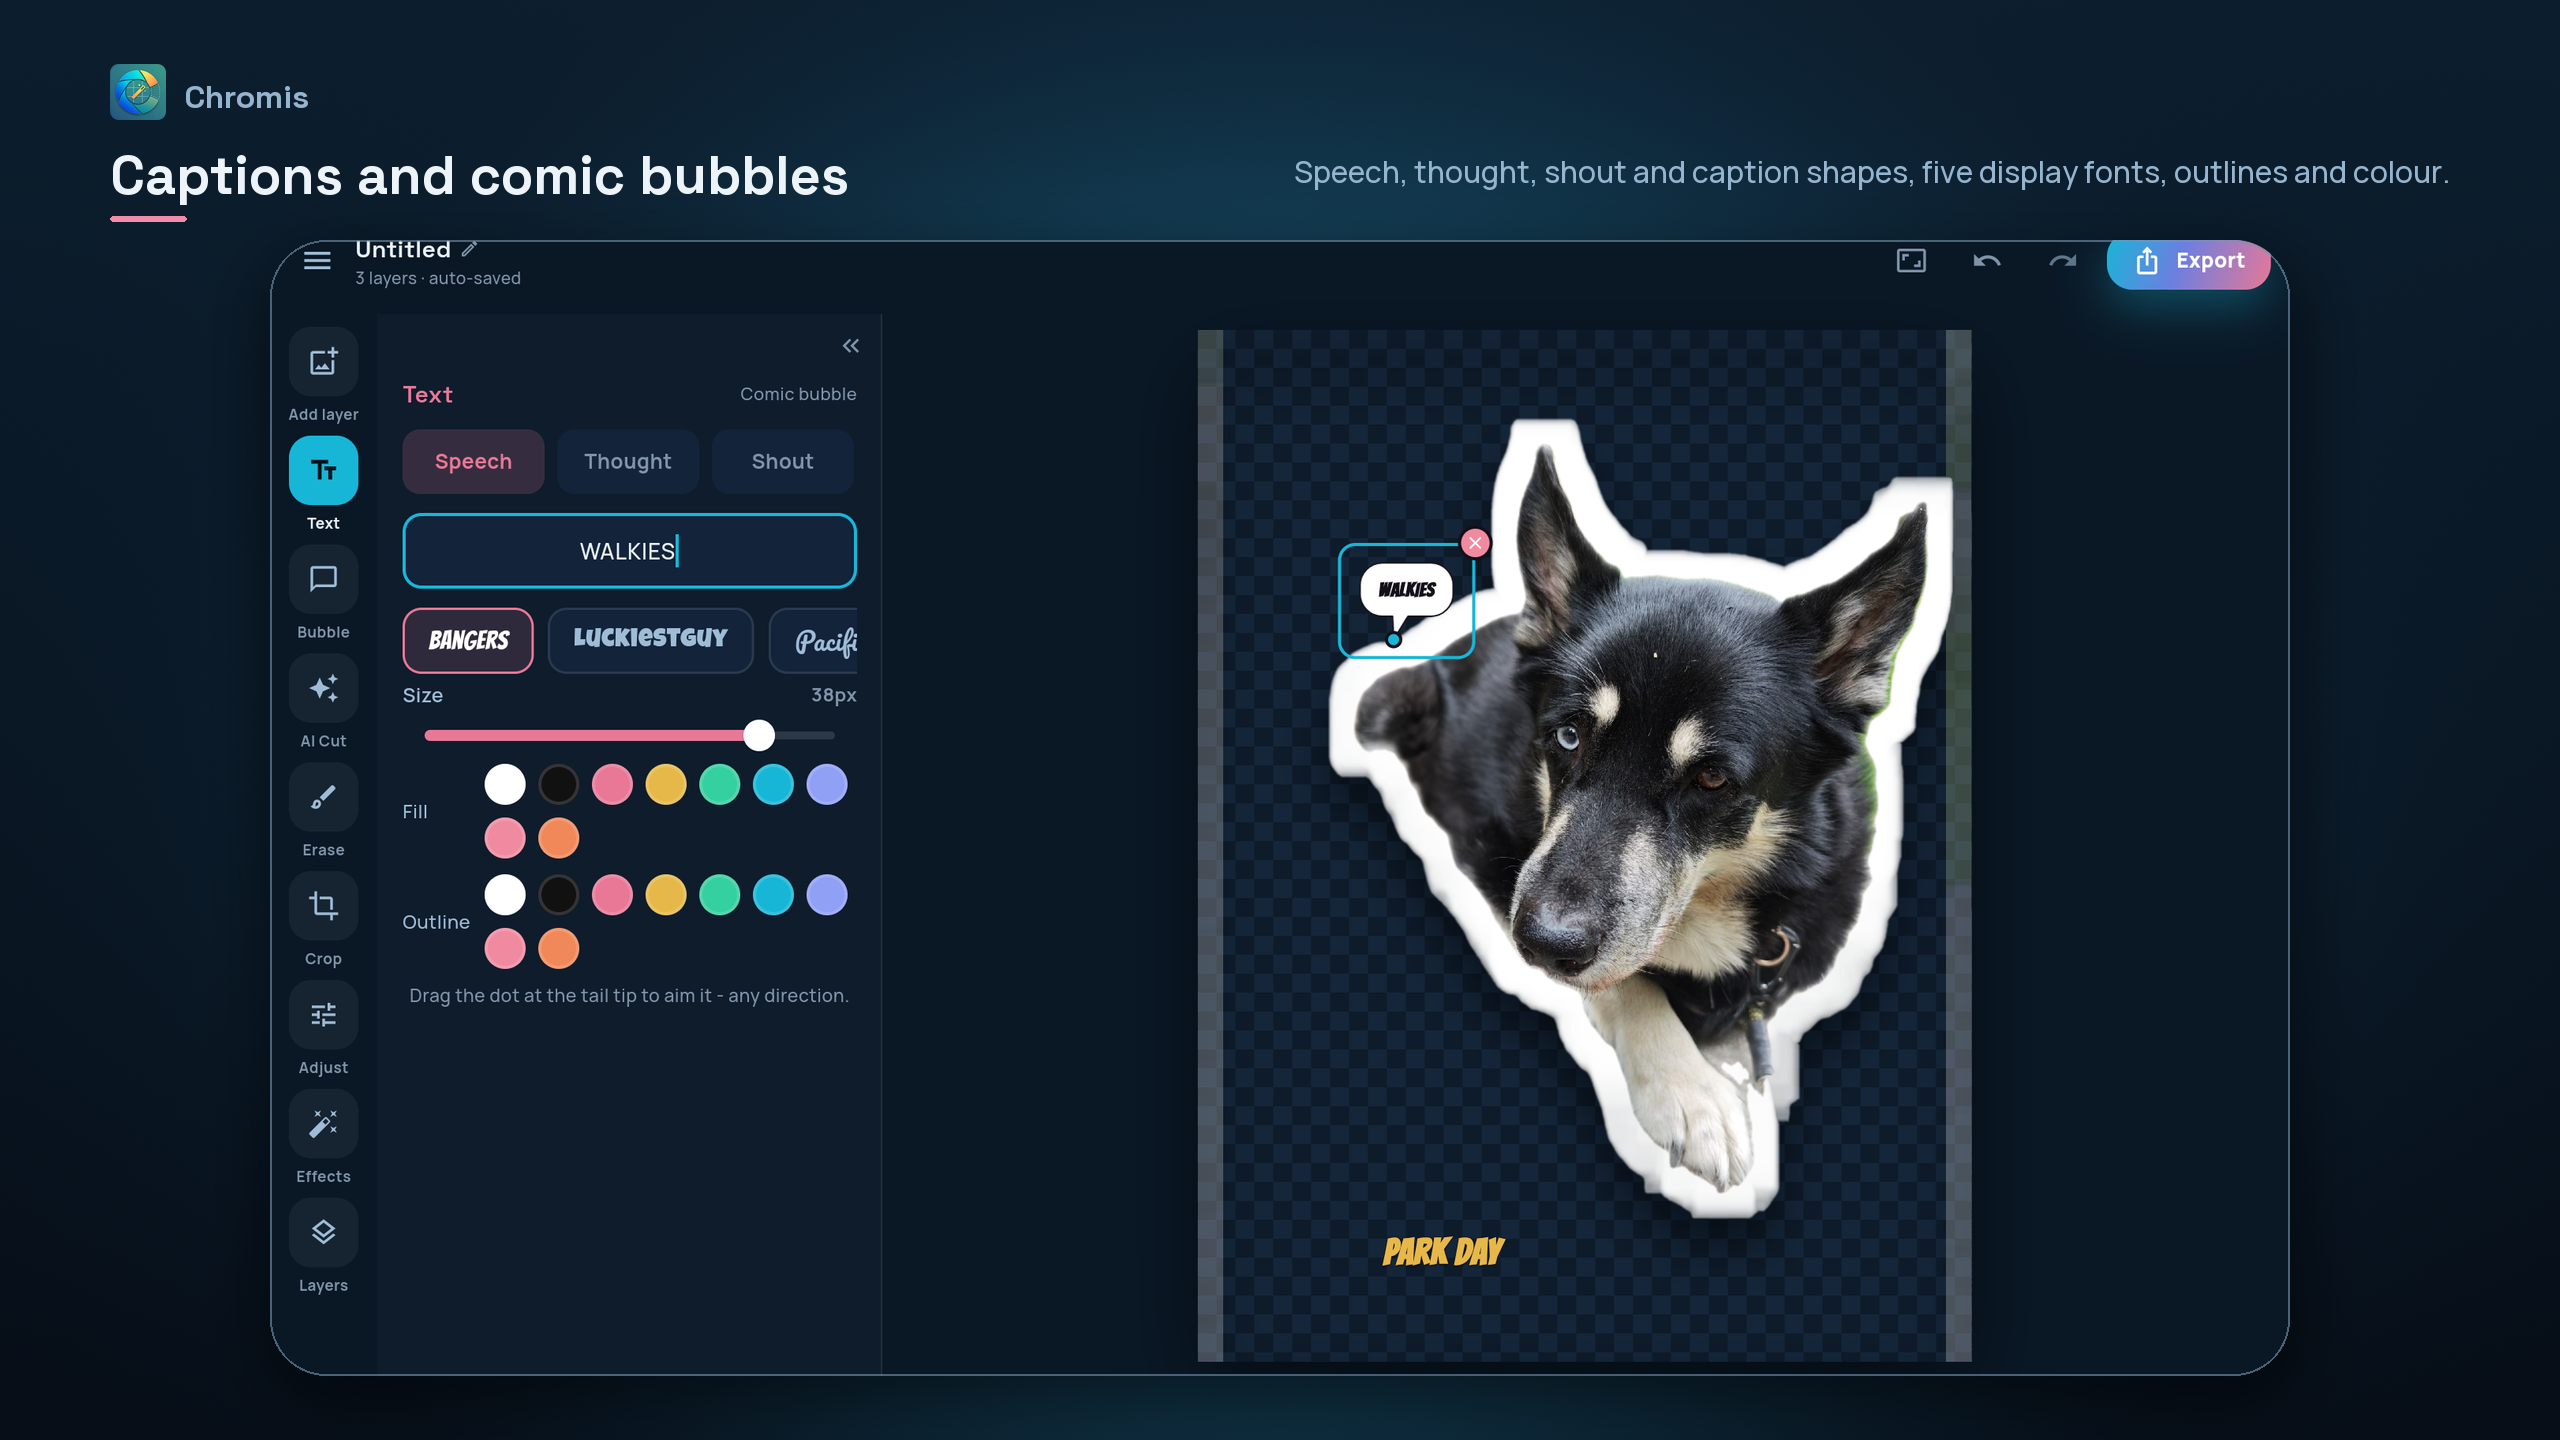
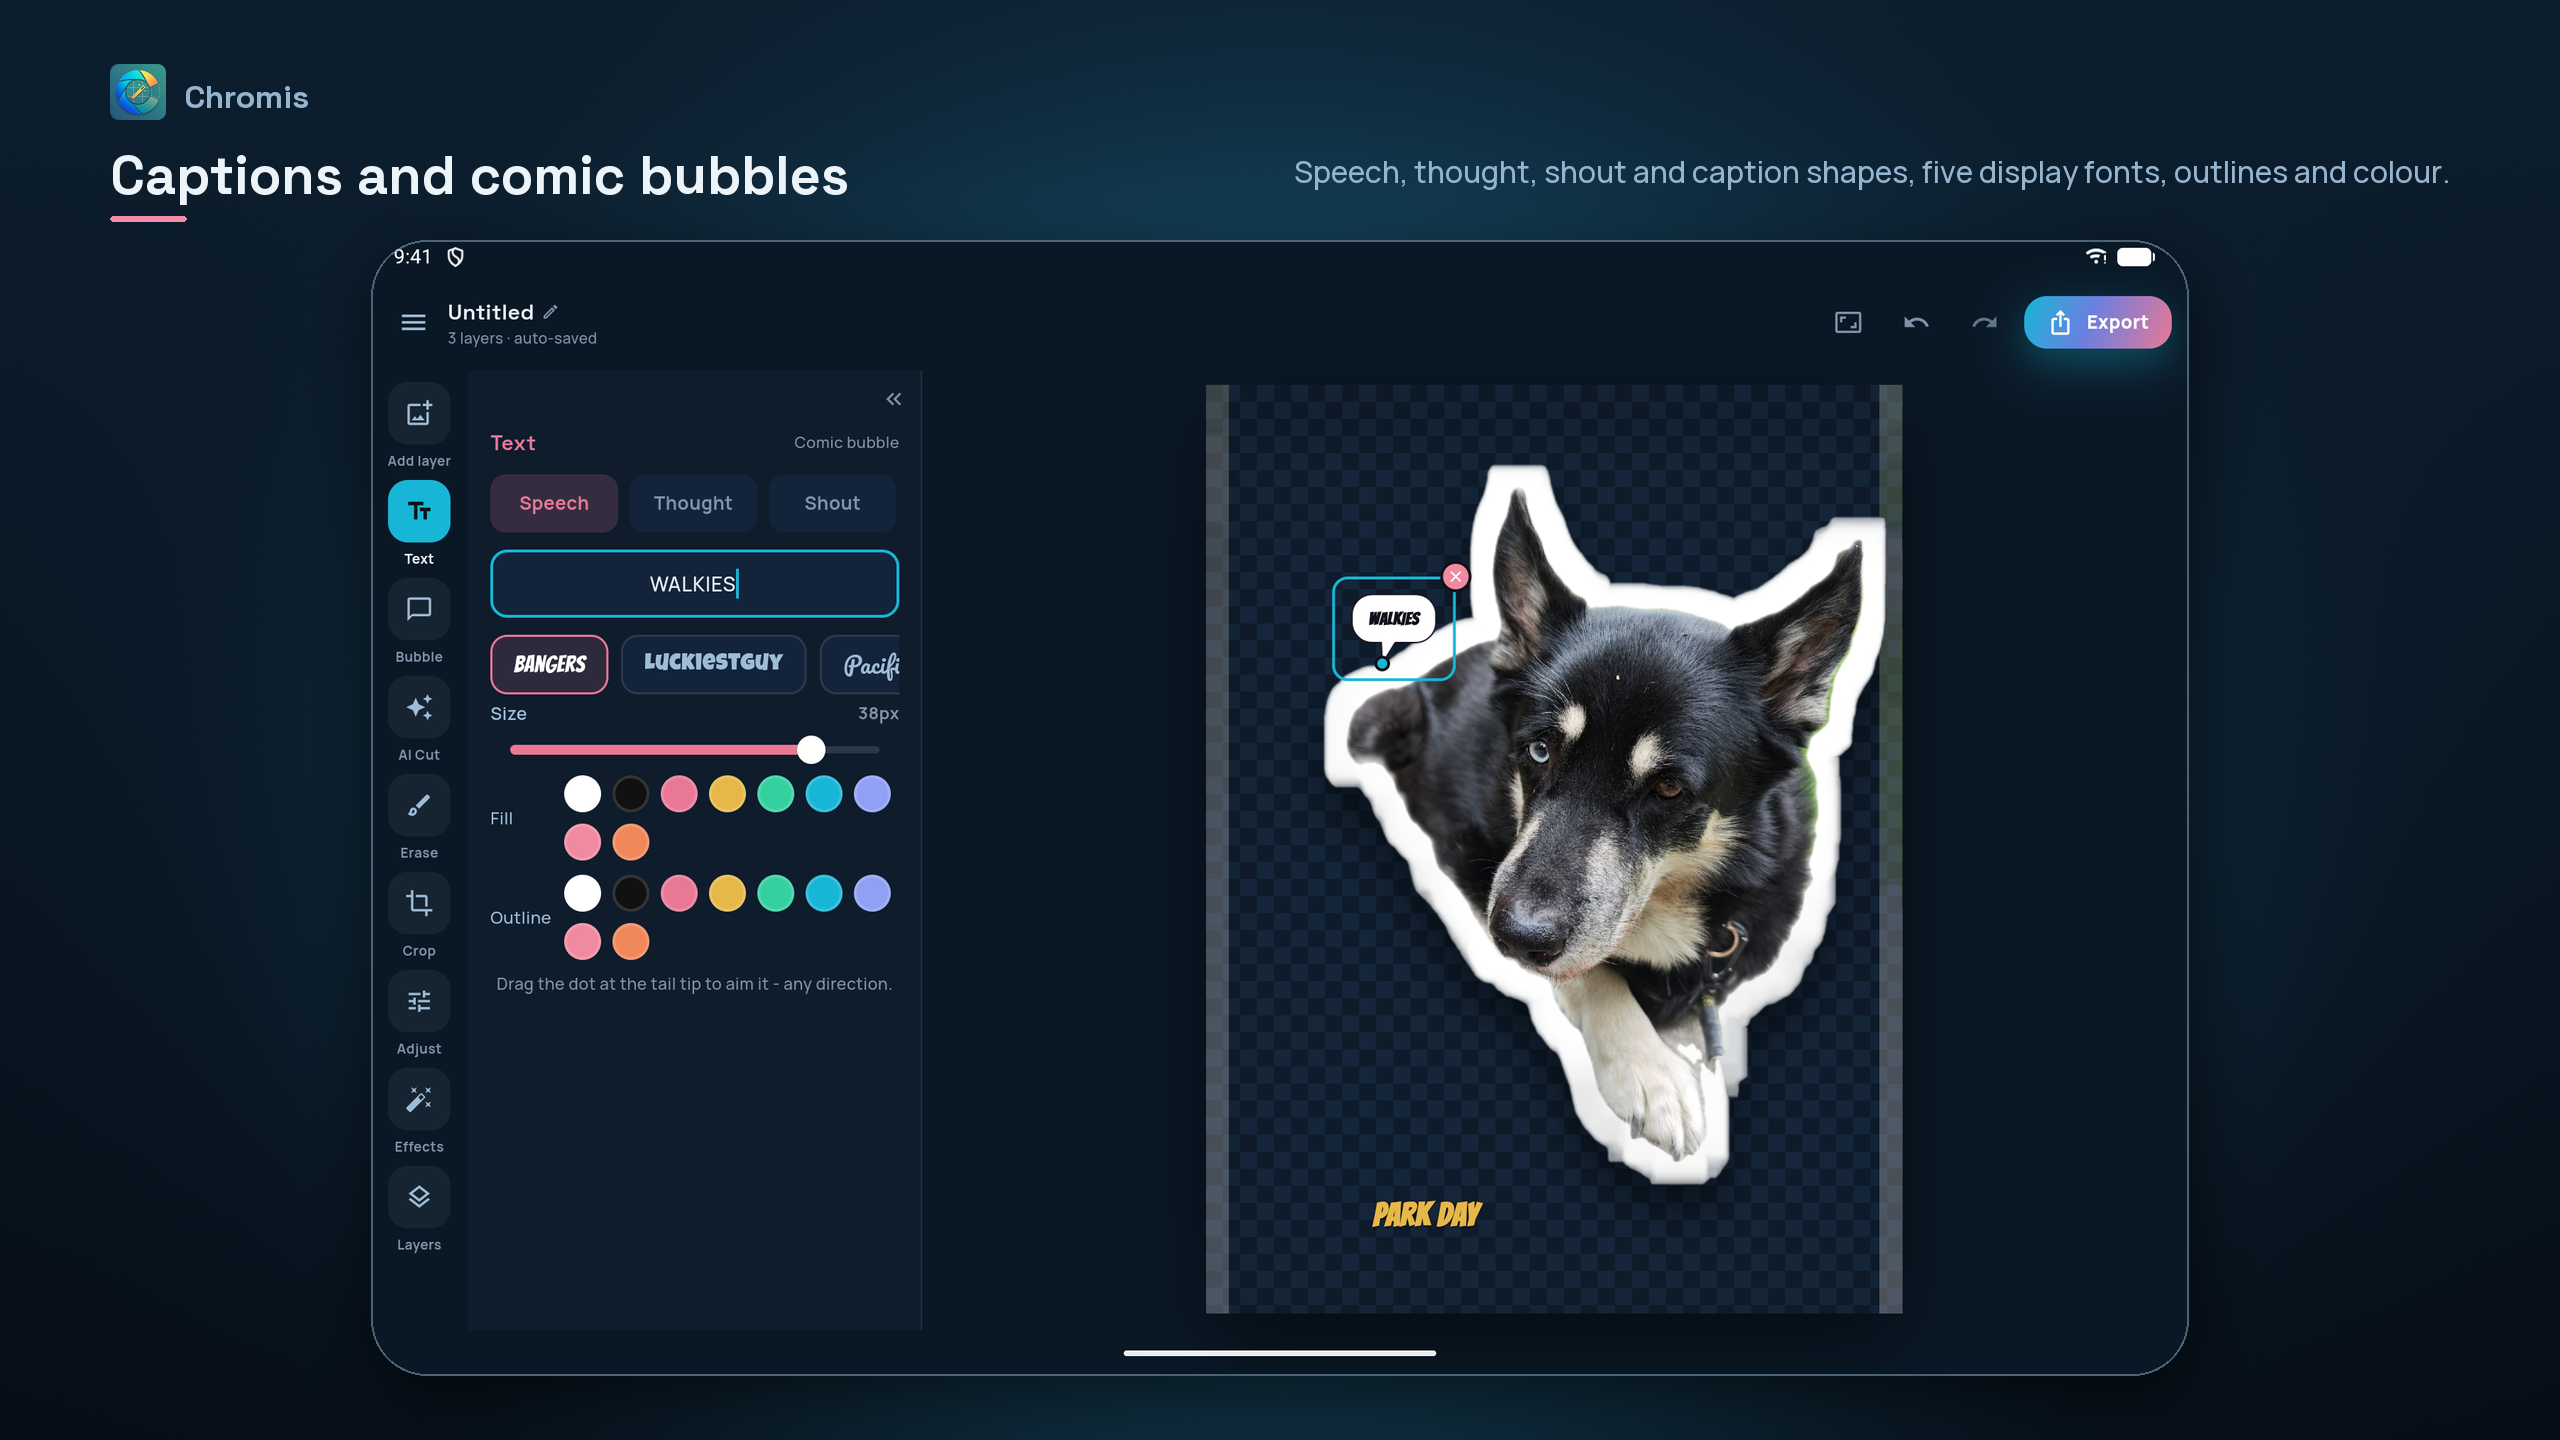
Store: stop cropping the tablet captures - it was clipping the app's top bar
The 16:10 capture was being shaved by 90 px at the top to force it onto the
frame's 16:9, on the assumption that 90 px was all status bar. Measured across
all eight captures, the OS status bar ends at row 38 and the app's own top bar
starts at row 79 - so the crop took 11 px off the project title, the pencil
affordance and the Export button in every single tablet shot.

Fixed by padding the mismatch instead of trimming it. A "just the chrome" crop
has to be re-measured whenever the top bar, the device or the density changes,
and it fails quietly: the output looks like a slightly tight crop rather than a
bug, which is exactly how this shipped. Padding costs ~370 px of field either
side and cannot cut anything.

The captions stay on one line - that was a separate change and it was not the
problem - so the device only loses the height the crop was buying: 1136 px tall
instead of 1216.

Verified per image rather than by eye: the rendered device rect is 1818x1136 in
all eight, aspect 1.6004 against the capture's 1.6000, which is only true if the
whole capture is present. (The first version of that check scanned the frame's
centre column and flagged 08-home, whose supporting line is long enough to cross
it - the probe was wrong, not the image.)

diff --git a/tool/gen_store_screens.py b/tool/gen_store_screens.py
@@ -14,10 +14,10 @@ No canvas matches its device, and each mismatch is handled differently:
   1.78 landscape art, so the phone can never fill the frame. In landscape it
   takes one side and the claim takes the other; in portrait the claim sits above
   a whole, uncropped device.
-- **Tablet** captures are 2560x1600 (16:10) against 16:9 art. Here the mismatch
-  is cropped away rather than padded: the OS status bar comes off the top and the
-  empty gesture strip off the bottom, landing the capture on exactly 16:9, which
-  buys the device a lot of size back before the caption is placed.
+- **Tablet** captures are 2560x1600 (16:10) against 16:9 art, and that gap is
+  padded too. Trimming the OS chrome to close it is tempting and was tried; see
+  `render_tablet` for why it is not worth the 11 px it quietly took off every
+  project title and Export button.
 
 The padding that remains is the layout, not an apology for it - at the size Play
 actually renders these the UI inside the device is illegible and the caption is
@@ -321,16 +321,17 @@ def render_portrait(src: Path, i: int, spec, fonts) -> Image.Image:
 def render_tablet(src: Path, i: int, spec, fonts) -> Image.Image:
     """2560x1440 for the 10-inch tablet slot: header band above the whole device.
 
-    The captures are 2560x1600 (16:10) and the frame is 16:9, so instead of
-    padding that mismatch away the OS chrome is cropped off first - the status
-    bar off the top, the empty gesture strip off the bottom - which lands the
-    capture on exactly 16:9. Both strips measure ~25/255 mean, i.e. they hold
-    nothing but system furniture.
+    The capture is NOT cropped. An earlier version shaved 90 px off the top to
+    force the 16:10 capture onto the frame's 16:9 and win the device some size,
+    on the assumption that 90 px was all status bar. It is not: measured across
+    all eight captures the OS status bar ends at row 38 and the app's own top bar
+    starts at row 79, so the crop sliced 11 px off the project title and the
+    Export button in every single shot.
 
-    Frame and capture then share an aspect, so the caption costs a uniform mat
-    rather than a lopsided one. The device stays whole: a tablet screenshot is
-    the evidence that the app uses the large screen, and cropping the rail or the
-    panel to win back margin would throw away the only thing it is proving.
+    The mismatch is padded instead. Trimming "just the chrome" needs the trim to
+    be re-measured whenever the app's top bar, the device or the density changes,
+    and the failure is quiet - it looks like a slightly tight crop rather than a
+    bug. Padding costs ~370 px of field either side and cannot cut anything.
     """
     W, H = 2560, 1440
     MARGIN, TOP, BAND_GAP, BOTTOM = 110, 64, 36, 64
@@ -339,7 +340,6 @@ def render_tablet(src: Path, i: int, spec, fonts) -> Image.Image:
     head_lh, sub_lh = 64, 42
 
     shot = Image.open(src / "tablet" / f"{name}.png").convert("RGB")
-    shot = shot.crop((0, 90, shot.width, shot.height - 70))
 
     # The phone captions wrap to two lines because a phone frame is narrow. This
     # one is 2560 wide, so they go on one line each - headline left, supporting
